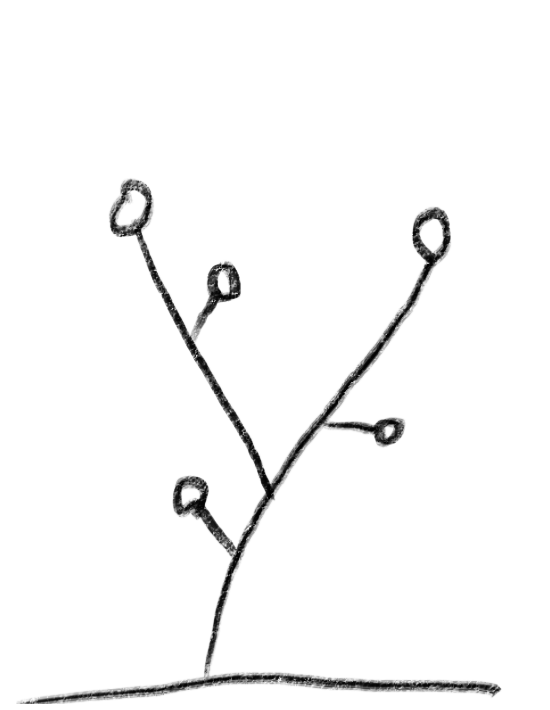
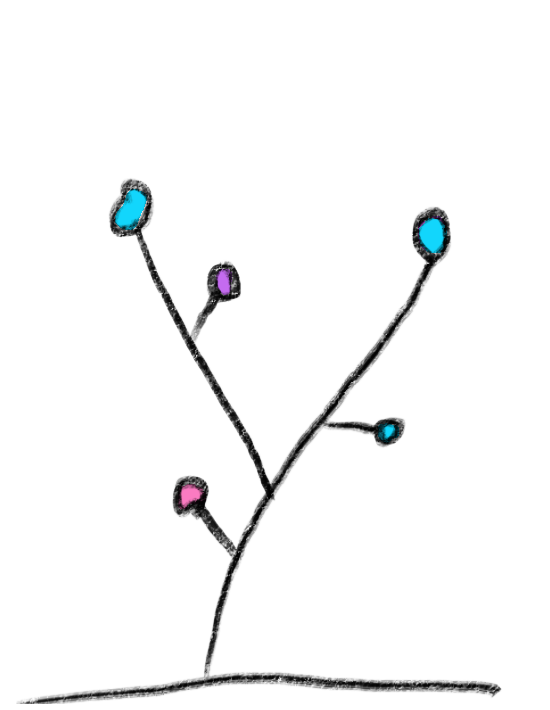
Added superorganic, added tomales animations

diff --git a/tomales/index.html b/tomales/index.html
@@ -5,10 +5,13 @@
     <script>
         $(document).ready(function() {
 
-            var flowerURLs = ["assets/cutie/cutie", "assets/bush/bush"]; //URL of all possible flowers
+            var flowerURLs = ["assets/cutie/cutie", "assets/bush/bush", "assets/hydranges/blue", "assets/tulips/red", "assets/cactus/cactus"]; //URL of all possible flowers
             var flowers = []; //Active flowers
 
+            var backgroundURL = ["assets/wind-slow/up"];
+
             var numFlowers = 1;
+            var gridFactor = 20;
             var gardenContainer = "#garden";
             var buttonID = "#cursor-overlay";
 
@@ -25,14 +28,11 @@
                         "id": flowerID
                     });
 
-                    if (i == 0) {
-                        var topPosition = 260;
-                        var leftPosition = 320;
-                    } else {
-                        //TODO: make a better distribution algorithm here
-                        var topPosition = Math.floor(Math.random() * 500);
-                        var leftPosition = Math.floor(Math.random() * 500);
-                    }
+
+
+                    //TODO: make a better distribution algorithm here
+                    var topPosition = ((i + 1) * ((Math.random() < 0) ? -1 : 1) * gridFactor) + Math.floor(Math.random() * 300);
+                    var leftPosition = ((i + 1) * ((Math.random() < 0) ? -1 : 1) * gridFactor) + Math.floor(Math.random() * 500) - 100;
 
                     var flowerPosition = "style='left:" + leftPosition + "; top:" + topPosition + ";'";
 
@@ -40,14 +40,6 @@
                     $(gardenContainer).append(imgElement);
                 }
             }
-
-            //Animation related thingies
-            var thingies = ["00", "01", "02", "03", "04", "05", "06", "07", "08", "09", "10", "11", "12", "13", "14", "15", "16", "17", "18", "19", "20"];
-            var maxFrame = thingies.length - 1;
-            var waitTime = 3000 / maxFrame;
-            var current = 0;
-            var direction = "pause";
-            var addNewFlowers = false;
 
 
             //No right clicks
@@ -80,17 +72,14 @@
                 renderNext();
             }
 
-            function tutorial() {
-                $("#tutorial-1").hide().fadeIn().delay(2000).fadeOut();
-                $("#tutorial-2").hide().delay(4000).fadeIn().delay(1000).fadeOut();
-                $("#tutorial-3").hide().delay(7000).fadeIn().delay(1000).fadeOut();
-                setTimeout(function() {
-                    $("#cursor-overlay").fadeTo(200, 0, function() {
-                        setupGarden();
-                        setupEvents();
-                    });
-                }, 9000);
-            }
+
+            //Animation related thingies
+            var thingies = ["00", "01", "02", "03", "04", "05", "06", "07", "08", "09", "10", "11", "12", "13", "14", "15", "16", "17", "18", "19", "20"];
+            var maxFrame = thingies.length - 1;
+            var waitTime = 3000 / maxFrame;
+            var current = 0;
+            var direction = "pause";
+            var addNewFlowers = false;
 
             function renderNext() {
 
@@ -99,9 +88,13 @@
                     document.getElementById(flower["id"]).src = desiredSrc;
                 });
 
+                var backgroundSrc = backgroundURL + thingies[current] + ".png";
+                $('#entire-space').css('background-image', 'url("' + backgroundSrc + '")');
+
                 if (direction == "pause") {
                     return;
-                } else if (direction == "down") {
+                } else
+                if (direction == "down") {
                     if (current == 0) {
                         direction = "pause";
                         if (addNewFlowers) {
@@ -128,6 +121,36 @@
                 }, waitTime);
             }
 
+            function tutorial() {
+                $("#tutorial-1").hide().fadeIn().delay(2000).fadeOut();
+                $("#tutorial-2").hide().delay(4000).fadeIn().delay(1000).fadeOut();
+                $("#tutorial-3").hide().delay(7000).fadeIn().delay(1000).fadeOut();
+                setTimeout(function() {
+                    $("#cursor-overlay").fadeTo(200, 0, function() {
+                        setupGarden();
+                        setupEvents();
+                    });
+                }, 9000);
+            }
+
+            function preload() {
+                $.each(flowerURLs, function(index, flowerURL) {
+                    for (var i = 0; i < thingies.length; i++) {
+                        var addition = thingies[i];
+                        var desiredSrc = flowerURL + addition + ".png";
+                        var newImg = $("<img src='" + desiredSrc + "'/>");
+                        $("#preload").append(newImg);
+                    }
+                });
+
+                for (var i = 0; i < thingies.length; i++) {
+                    var addition = thingies[i];
+                    var backroundSrc = backgroundURL + addition + ".png";
+                    var newBg = $("<img src='" + backroundSrc + "'/>")
+                    $("#preload").append(newBg);
+                }
+            }
+            preload();
             tutorial();
         });
     </script>
@@ -138,13 +161,16 @@
         }
         
         #entire-space {
-            background: #38a0ff;
+            background-image: url("assets/wind-slow/up00.png");
+            background-size: 600px;
+            background-position: left;
             position: absolute;
             top: 0px;
             left: 0px;
             width: 100vw;
             height: 100vh;
             z-index: -1;
+            opacity: 0.4;
         }
         
         #garden-container {
@@ -194,15 +220,19 @@
             left: 50%;
             transform: translate(-50%, -50%);
         }
+        
+        #preload {
+            display: none;
+        }
     </style>
 </head>
 
 <body>
     <div id="cursor-overlay">
         <div id="tutorial-container">
-            <div id="tutorial-1" class="tutorial"> 🌸 This is a safe space </div>
-            <div id="tutorial-2" class="tutorial"> ⬇Press down as you breathe in </div>
-            <div id="tutorial-3" class="tutorial"> ⬆Release as you breathe out </div>
+            <div id="tutorial-1" class="tutorial"> This is a safe space </div>
+            <div id="tutorial-2" class="tutorial"> Breathe in, and press down </div>
+            <div id="tutorial-3" class="tutorial"> Breathe out, and release </div>
         </div>
     </div>
 
@@ -214,6 +244,9 @@
             </div>
         </div>
     </div>
+    <div id="preload">
+
+    </div>
 </body>
 
-</html>
+</html
